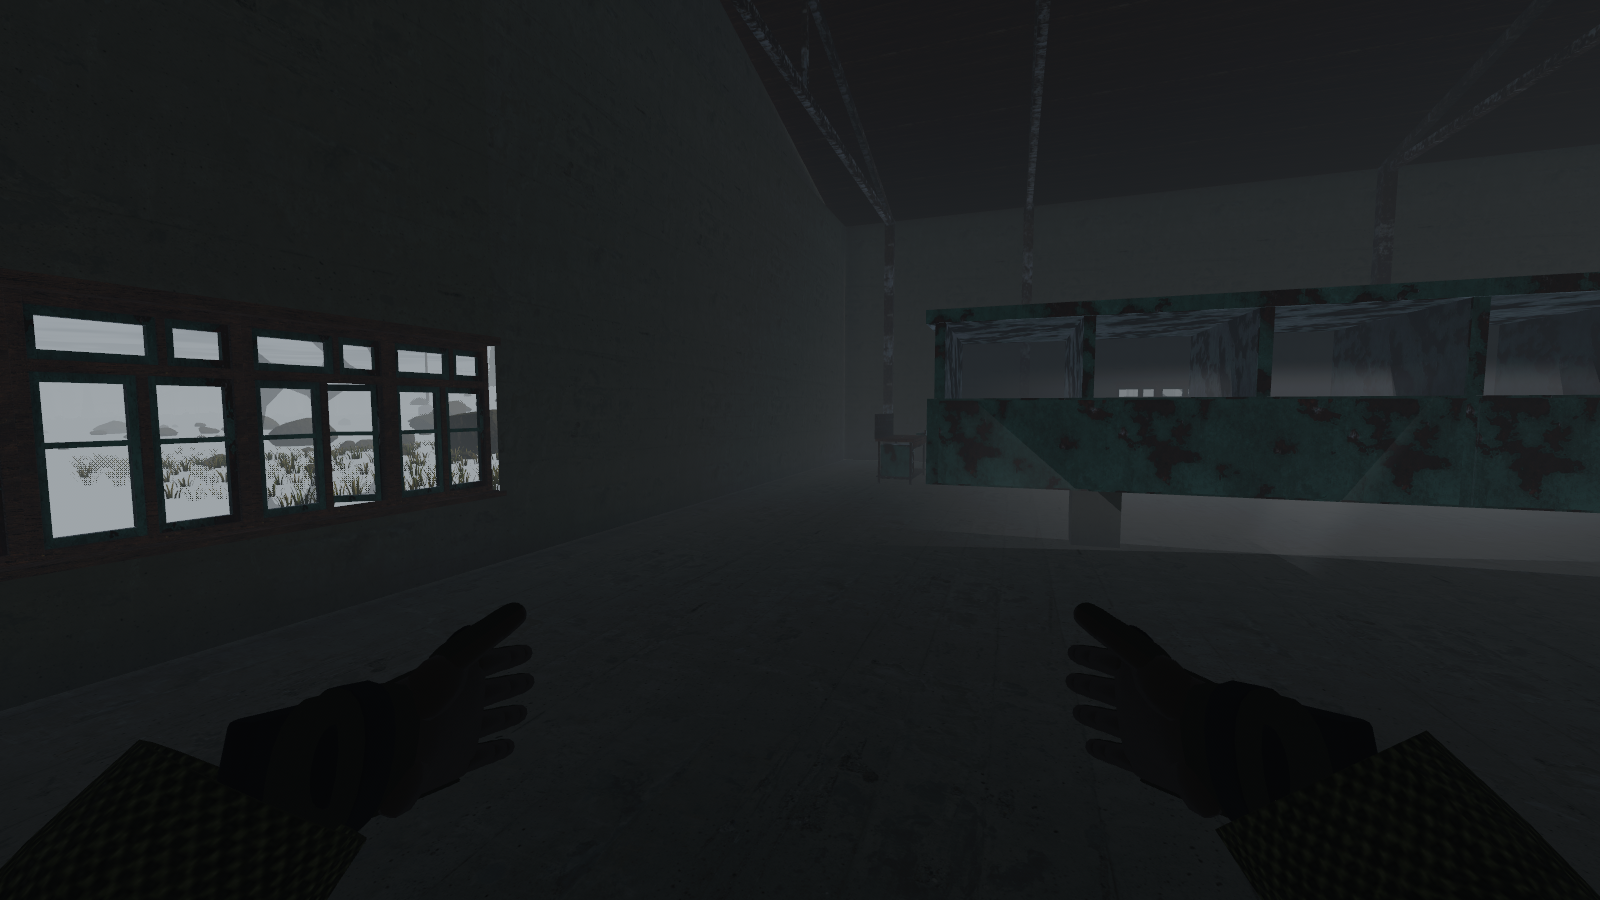
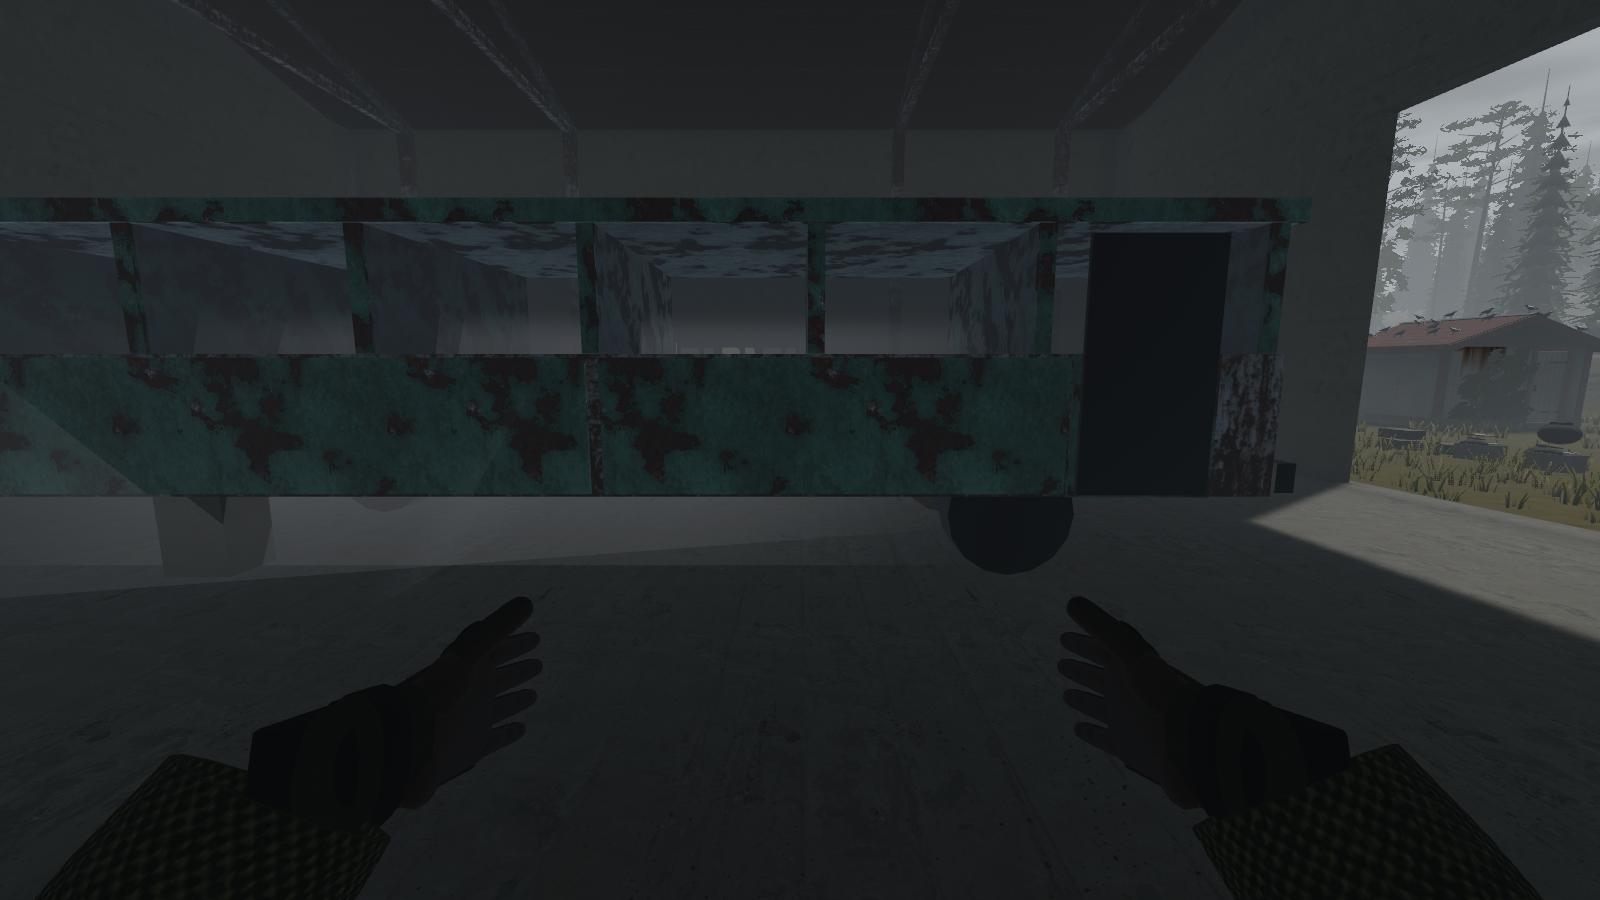
Destruction: the bus shot again, fitted and with a panel prised off
Claude-Session: https://claude.ai/code/session_01UnnefVR1t5QAeMk45Vh8tg

diff --git a/docs/DESTRUCTION.md b/docs/DESTRUCTION.md
@@ -271,7 +271,9 @@ shot off, splinters falling), `worn.png` (a hole worn through a plank
 wall by a dozen rifle rounds), `shutters.png` (the foreman's cabin, its
 shutters open either side of the window), `shutter_off.png` (one shot
 off, its splinters at the wall's foot) and `bus.png` (the depot's bus,
-its skirt panels to prise off).
+its skirt panels to prise off) and `bus_stripped.png` (one prised off,
+the rusted core behind). `EXTRACTION_STRIP=1` takes off the part in view
+twenty frames before the capture.
 
 ## Next
 
